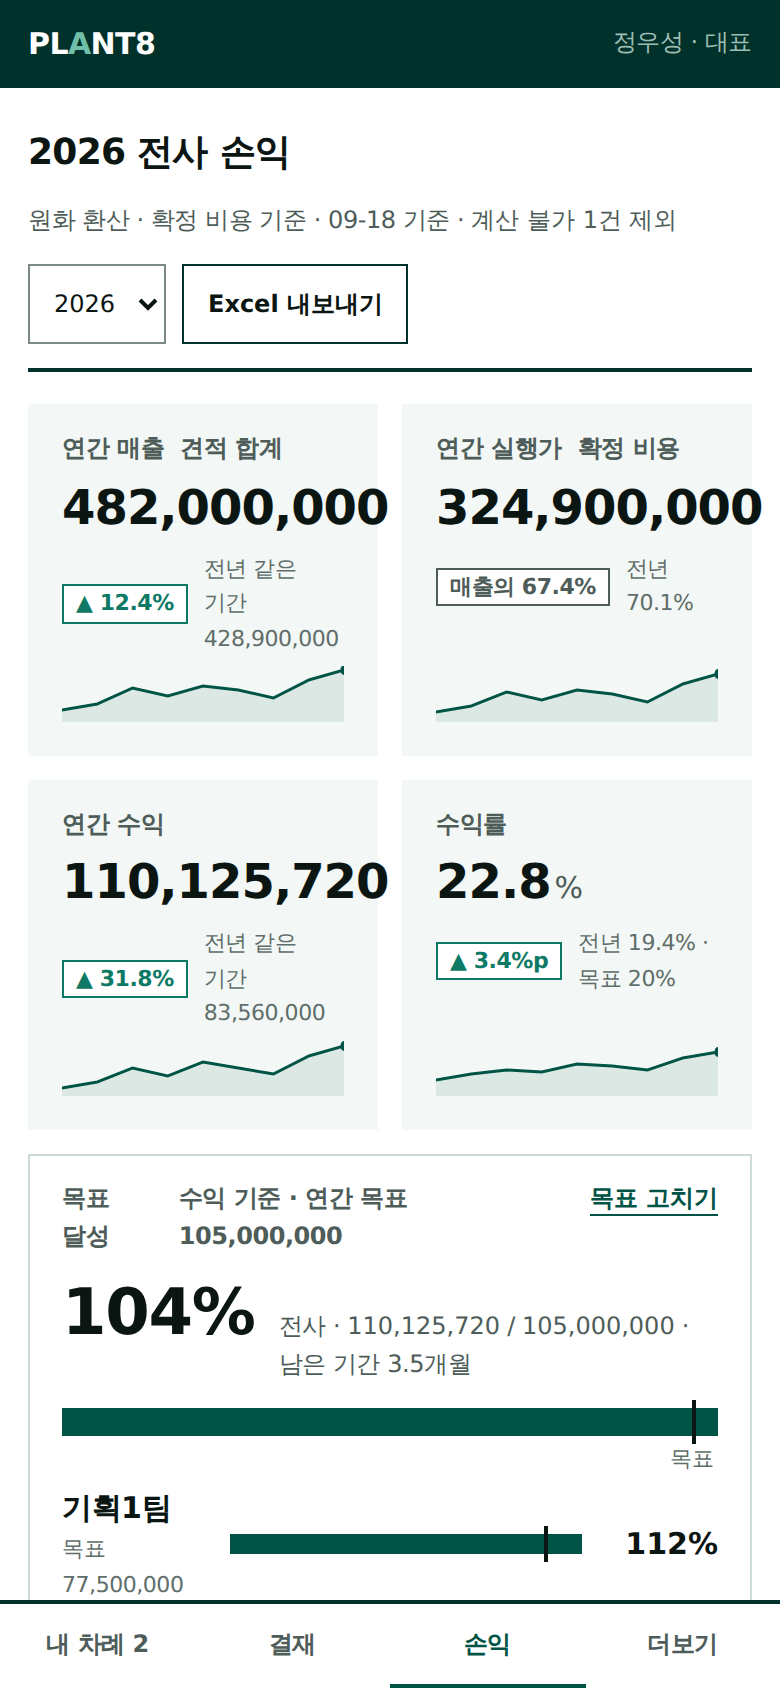
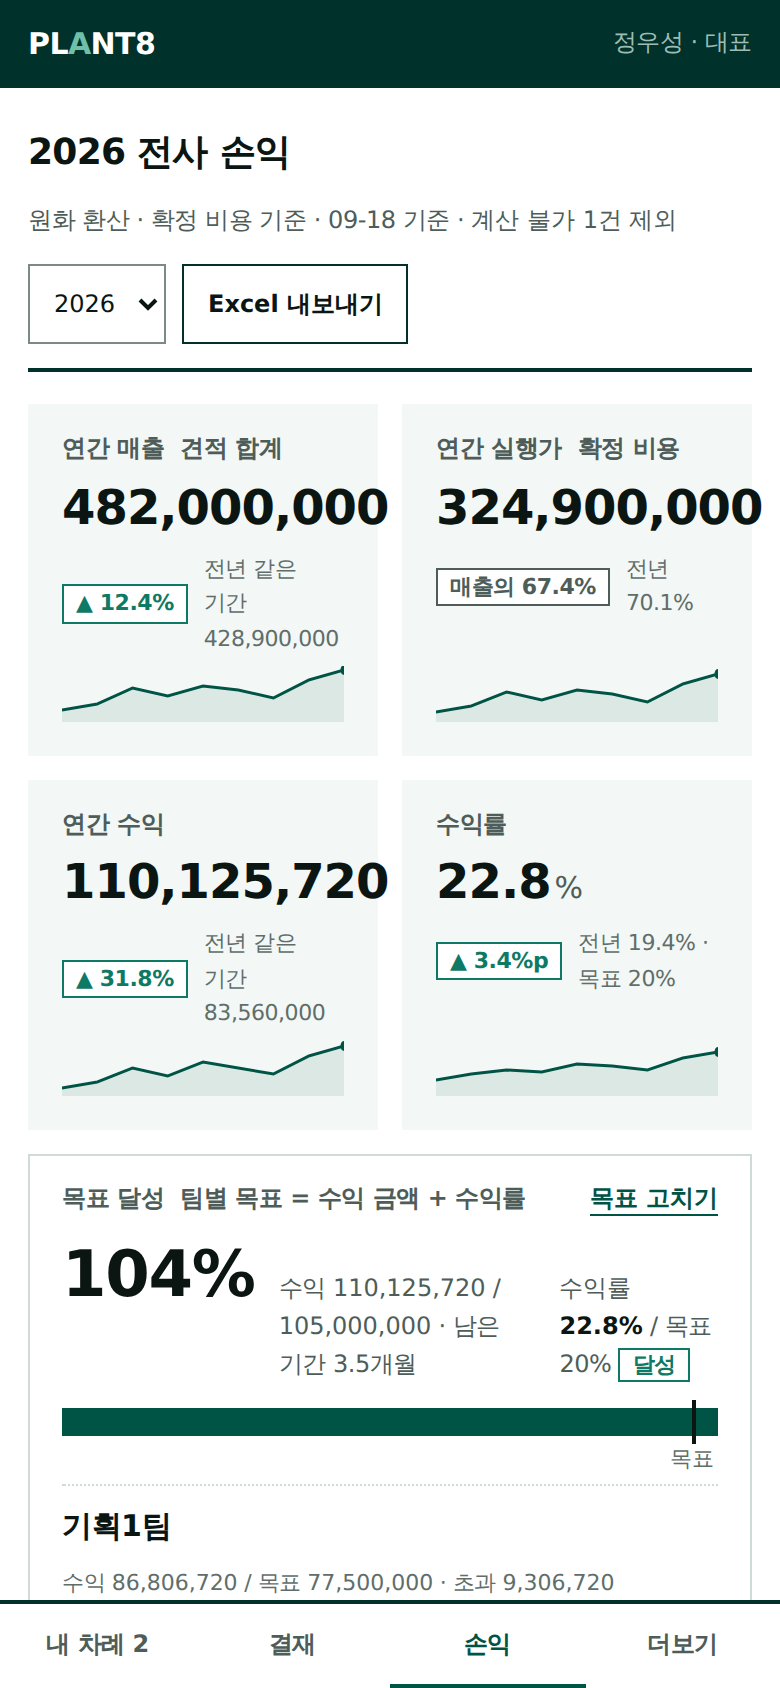
docs: 전사 대시보드 반영 — 클라이언트별 매출 순위 · 비용 구성 도넛 · 팀별 수익률 목표 · 데이터 색 6단 제안
사용자 결정(2026-09-18): 「다가오는 지급」 「챙길 것」 제외, 클라이언트별
매출 순위 추가, 팀별 목표에 수익률(실적/목표) 추가, 색 더 다양하게.
「챙길 것」 자리에는 비용 구성 도넛을 추천으로 넣었다(확인 전).
데이터 색 --viz-1~6은 파일 안 제안 토큰(확정 시 tokens.css).

Claude-Session: https://claude.ai/code/session_01MwoSZSUG1tWADvG16RK3Ss

diff --git a/docs/design/system/dashboard-ceo.html b/docs/design/system/dashboard-ceo.html
@@ -9,10 +9,14 @@
 /* §6-4 다시 씀 후보(2026-09-18, 사용자 요청 「대시보드 형식으로 한눈에」): 대표·경영관리 첫 화면.
    프로젝트별 원장은 여기 없다(프로젝트 목록에 수익률 열이 있다). 컴포넌트: KPI 타일(추세선 · 전년 대비 칩) ·
    목표 달성 막대(전사 + 팀별, 목표 눈금) · 월별 매출·수익 막대 + 수익률 선 · 팀별 매출 비중 띠 ·
-   챙길 것 타일 · 프로젝트 현황(상태 칩 + 수익률 낮은 프로젝트) · 다가오는 지급.
-   토큰만 쓴다. 제안 토큰 1개: --fs-2xl(32px, 대시보드 큰 숫자) — 승인 전이라 이 파일 안에서만 정의.
+   클라이언트별 매출 순위(팀 색) · 비용 구성 도넛(추천) · 프로젝트 현황(상태 칩 + 수익률 낮은 프로젝트).
+   2026-09-18 사용자: 「다가오는 지급」 「챙길 것」 제외, 클라이언트별 매출 순위 추가, 색 더 다양하게(→ --viz-* 제안).
+   토큰만 쓴다. 제안 토큰: --fs-2xl(32px) · --viz-1~6(데이터 색) — 승인 전이라 이 파일 안에서만 정의.
    장면: #ceo(기본) · #mgmt(경영관리 — 같은 화면, 계급 이름만). 앱 코드가 아니다. */
-:root{--fs-2xl:32px}
+:root{--fs-2xl:32px;
+  /* 제안 토큰(승인 전): 데이터 색 6단 — 그린을 1번으로, 나머지는 같은 명도대의 다른 색상. 흰 글자 대비 1·2·4·5 ≥ 4.5, 3·6은 짙은 글자 */
+  --viz-1:var(--g-700);--viz-2:#1F5FA8;--viz-3:#C27A12;--viz-4:#6C4BA6;--viz-5:#B03A2E;--viz-6:var(--g-400);
+  --viz-1-weak:var(--g-100);--viz-2-weak:#DCE7F5;--viz-3-weak:#F7E8CF}
 *{box-sizing:border-box;margin:0;padding:0}
 html{font-size:var(--fs-base)}
 body{background:var(--bg);color:var(--fg);font-family:var(--font-sans);font-size:var(--fs-base);line-height:var(--lh-body);letter-spacing:var(--ls-body);word-break:keep-all;overflow-wrap:anywhere;-webkit-font-smoothing:antialiased}
@@ -74,13 +78,22 @@ main{padding:var(--s-5) var(--pad-page) 72px;max-width:var(--container-max)}
 .track i{position:absolute;top:-4px;bottom:-4px;width:2px;background:var(--fg)}
 .track .tick{position:absolute;top:100%;font-size:var(--fs-xs);color:var(--faint);transform:translateX(-50%);margin-top:3px;white-space:nowrap}
 .teams{list-style:none;display:flex;flex-direction:column;gap:var(--s-3);margin-top:var(--s-3)}
-.teams li{display:grid;grid-template-columns:72px minmax(0,1fr) 56px;gap:var(--s-3);align-items:center;min-width:0}
-.teams .t{font-weight:var(--fw-medium)}
-.teams .t small{display:block;font-size:var(--fs-xs);color:var(--faint);font-weight:var(--fw-regular)}
-.teams .track{height:10px;margin:0}
-.teams .pct{text-align:right;font-weight:var(--fw-bold)}
-.teams .pct.low{color:var(--warning)}
-.teams .amt{grid-column:2/-1;font-size:var(--fs-xs);color:var(--faint);margin-top:-6px;white-space:normal;letter-spacing:var(--ls-body)}
+.teams li{display:flex;flex-direction:column;gap:5px;min-width:0;padding-top:var(--s-2);border-top:var(--line-w) dotted var(--line)}
+.teams .hd{display:flex;gap:var(--s-2);align-items:baseline;flex-wrap:wrap}
+.teams .hd b{font-weight:var(--fw-medium)}
+.teams .hd small{font-size:var(--fs-xs);color:var(--faint)}
+.teams .r{display:grid;grid-template-columns:40px minmax(0,1fr) 108px;gap:var(--s-2);align-items:center}
+.teams .r small{font-size:var(--fs-xs);color:var(--faint)}
+.teams .r .track{margin:0;height:10px}
+.teams .r .track i{top:-3px;bottom:-3px}
+.teams .r.rate .track{height:6px;background:var(--viz-3-weak)}
+.teams .r.rate .track b{background:var(--viz-3)}
+.teams .pct{text-align:right;font-weight:var(--fw-bold);white-space:nowrap}
+.teams .pct small{font-weight:var(--fw-regular);color:var(--faint);font-size:var(--fs-xs)}
+.teams .pct.low,.teams .pct.miss{color:var(--viz-5)}
+.teams li.t1 .r:not(.rate) .track b{background:var(--viz-1)}
+.teams li.t2 .r:not(.rate) .track b{background:var(--viz-2)}
+.teams li.t3 .r:not(.rate) .track b{background:var(--viz-4)}
 
 /* 월별 차트 */
 .chart{width:100%;height:auto;display:block;margin-top:var(--s-2)}
@@ -89,19 +102,20 @@ main{padding:var(--s-5) var(--pad-page) 72px;max-width:var(--container-max)}
 .chart .sales{fill:var(--g-100)}
 .chart .profit{fill:var(--g-700)}
 .chart .now .sales{fill:var(--g-400)}
-.chart .rate{fill:none;stroke:var(--fg);stroke-width:1.5;stroke-dasharray:3 3}
-.chart .rate-dot{fill:var(--bg);stroke:var(--fg);stroke-width:1.5}
+.chart .rate{fill:none;stroke:var(--viz-3);stroke-width:2}
+.chart .rate-dot{fill:var(--bg);stroke:var(--viz-3);stroke-width:2}
 .chart .lbl{font-size:11px;fill:var(--fg);font-weight:600;font-family:var(--font-sans)}
+.chart .lbl.rate-l{fill:var(--viz-3)}
 .legend{display:flex;gap:var(--s-4);font-size:var(--fs-xs);color:var(--muted);flex-wrap:wrap}
 .legend i{display:inline-block;width:10px;height:10px;vertical-align:-1px;margin-right:4px}
 .legend .l-sales{background:var(--g-100)}.legend .l-profit{background:var(--g-700)}.legend .l-now{background:var(--g-400)}
-.legend .l-rate{width:14px;height:0;border-top:2px dashed var(--fg);vertical-align:2px}
+.legend .l-rate{width:14px;height:0;border-top:2px solid var(--viz-3);vertical-align:2px}
 
 /* 비중 띠 */
 .share{display:flex;height:22px;margin-top:var(--s-2)}
 .share span{display:flex;align-items:center;padding:0 var(--s-2);font-size:var(--fs-xs);font-weight:var(--fw-medium);white-space:nowrap;overflow:hidden;min-width:0}
 .share .a{background:var(--g-700);color:#fff}
-.share .b{background:var(--g-400);color:var(--g-900)}
+.share .b{background:var(--viz-2);color:#fff}
 .share .c{background:var(--g-100);color:var(--fg)}
 .share-l{display:flex;gap:var(--s-4);font-size:var(--fs-xs);color:var(--muted);margin-top:var(--s-1);flex-wrap:wrap}
 .share-l b{color:var(--fg)}
@@ -119,7 +133,10 @@ main{padding:var(--s-5) var(--pad-page) 72px;max-width:var(--container-max)}
 
 /* 프로젝트 현황 */
 .status{display:flex;gap:var(--s-2);flex-wrap:wrap}
-.status span{border:var(--line-w) solid var(--line-strong);padding:2px 10px;font-size:var(--fs-sm);display:inline-flex;gap:6px;align-items:baseline}
+.status span{border:var(--line-w) solid var(--line-strong);padding:2px 10px;font-size:var(--fs-sm);display:inline-flex;gap:6px;align-items:baseline;box-shadow:inset 3px 0 0 var(--viz-1)}
+.status span.done{box-shadow:inset 3px 0 0 var(--viz-2)}
+.status span.wait{box-shadow:inset 3px 0 0 var(--viz-3)}
+.status span.next{box-shadow:inset 3px 0 0 var(--viz-4)}
 .status b{font-size:var(--fs-md)}
 .status span.m{border-color:var(--line);color:var(--muted)}
 .low{list-style:none;margin-top:var(--s-2)}
@@ -131,6 +148,36 @@ main{padding:var(--s-5) var(--pad-page) 72px;max-width:var(--container-max)}
 .low .mini b.bad{background:var(--danger)}
 .low .pct{text-align:right;font-weight:var(--fw-bold)}
 .low .pct.w{color:var(--warning)}.low .pct.d{color:var(--danger)}
+
+/* 클라이언트별 매출 순위 */
+.rank{list-style:none;display:flex;flex-direction:column;gap:6px;margin-top:var(--s-1)}
+.rank li{display:grid;grid-template-columns:18px minmax(0,1fr) 92px;gap:var(--s-2);align-items:center;font-size:var(--fs-sm)}
+.rank .no{font-size:var(--fs-xs);color:var(--faint);text-align:right;font-variant-numeric:tabular-nums}
+.rank .nm{display:flex;justify-content:space-between;gap:var(--s-2);min-width:0}
+.rank .nm span{overflow:hidden;text-overflow:ellipsis;white-space:nowrap}
+.rank .nm small{color:var(--faint);white-space:nowrap}
+.rank .bar-c{grid-column:2;height:12px;background:var(--surface);position:relative;margin-top:-2px}
+.rank .bar-c b{position:absolute;left:0;top:0;bottom:0;background:var(--viz-1)}
+.rank li.t2 .bar-c b{background:var(--viz-2)}
+.rank li.na .bar-c b{background:var(--line-ui)}
+.rank .amt{grid-row:span 2;text-align:right;font-weight:var(--fw-bold);align-self:center}
+.rank .amt small{display:block;font-size:var(--fs-xs);color:var(--faint);font-weight:var(--fw-regular)}
+.rank-l{display:flex;gap:var(--s-4);font-size:var(--fs-xs);color:var(--muted);margin-top:auto;padding-top:var(--s-2)}
+.rank-l i{display:inline-block;width:10px;height:10px;vertical-align:-1px;margin-right:4px}
+/* 비용 구성 도넛 */
+.donut{display:grid;grid-template-columns:132px minmax(0,1fr);gap:var(--s-3);align-items:center}
+.donut svg{width:132px;height:132px}
+.donut circle{fill:none;stroke-width:22}
+.donut .c1{stroke:var(--viz-1)}.donut .c2{stroke:var(--viz-2)}.donut .c3{stroke:var(--viz-3)}.donut .c4{stroke:var(--viz-4)}.donut .c5{stroke:var(--viz-5)}
+.donut .ctr{font-size:var(--fs-lg);font-weight:var(--fw-bold);fill:var(--fg);font-family:var(--font-sans)}
+.donut .ctr-l{font-size:11px;fill:var(--faint);font-family:var(--font-sans)}
+.donut ul{list-style:none;display:flex;flex-direction:column;gap:5px;font-size:var(--fs-sm);min-width:0}
+.donut li{display:grid;grid-template-columns:10px auto 1fr;gap:8px;align-items:baseline;white-space:nowrap}
+.donut li .p{text-align:right}
+.donut li i{width:10px;height:10px;display:block;align-self:center}
+.donut li .p{font-weight:var(--fw-bold);font-variant-numeric:tabular-nums}
+.donut li small{color:var(--faint);margin-left:4px}
+.donut .k1{background:var(--viz-1)}.donut .k2{background:var(--viz-2)}.donut .k3{background:var(--viz-3)}.donut .k4{background:var(--viz-4)}.donut .k5{background:var(--viz-5)}
 
 /* 다가오는 지급 */
 .pay{list-style:none}
@@ -206,13 +253,18 @@ main{padding:var(--s-5) var(--pad-page) 72px;max-width:var(--container-max)}
 
     <!-- 목표 달성 -->
     <section class="blk c5" aria-label="목표 달성">
-      <h2>목표 달성 <span class="why">수익 기준 · 연간 목표 105,000,000</span><button class="b3">목표 고치기</button></h2>
-      <div class="goal-big"><span class="pct num">104%</span><span class="of">전사 · <span class="num">110,125,720</span> / <span class="num">105,000,000</span> · 남은 기간 3.5개월</span></div>
+      <h2>목표 달성 <span class="why">팀별 목표 = 수익 금액 + 수익률</span><button class="b3">목표 고치기</button></h2>
+      <div class="goal-big"><span class="pct num">104%</span><span class="of">수익 <span class="num">110,125,720</span> / <span class="num">105,000,000</span> · 남은 기간 3.5개월</span><span class="of" style="margin-left:auto">수익률 <b class="num" style="color:var(--fg)">22.8%</b> / 목표 20% <span class="chip up">달성</span></span></div>
       <div class="track" aria-hidden="true"><b style="width:100%"></b><i style="left:96%"></i><span class="tick" style="left:96%">목표</span></div>
       <ul class="teams">
-        <li><span class="t">기획1팀<small>목표 77,500,000</small></span><span class="track"><b style="width:100%"></b><i style="left:89%"></i></span><span class="pct num">112%</span><span class="amt num">86,806,720 · 초과 9,306,720</span></li>
-        <li><span class="t">기획2팀<small>목표 26,500,000</small></span><span class="track"><b style="width:88%"></b><i style="left:100%"></i></span><span class="pct num low">88%</span><span class="amt num">23,319,000 · 남은 3,181,000 · 진행 2건 예상 수익 4,900,000</span></li>
-        <li><span class="t">경영관리<small>목표 1,000,000</small></span><span class="track"><b style="width:0%"></b><i style="left:100%"></i></span><span class="pct num low">0%</span><span class="amt">프로젝트 없음 · 팀 비용만</span></li>
+        <li class="t1"><div class="hd"><b>기획1팀</b><small>수익 <span class="num">86,806,720</span> / 목표 <span class="num">77,500,000</span> · 초과 <span class="num">9,306,720</span></small></div>
+          <div class="r"><small>수익</small><span class="track"><b style="width:100%"></b><i style="left:89%"></i></span><span class="pct num">112%</span></div>
+          <div class="r rate"><small>수익률</small><span class="track"><b style="width:68%"></b><i style="left:55%"></i></span><span class="pct num">27.0%<small> / 22%</small></span></div></li>
+        <li class="t2"><div class="hd"><b>기획2팀</b><small>수익 <span class="num">23,319,000</span> / 목표 <span class="num">26,500,000</span> · 남은 <span class="num">3,181,000</span> · 진행 2건 예상 <span class="num">4,900,000</span></small></div>
+          <div class="r"><small>수익</small><span class="track"><b style="width:88%"></b><i style="left:100%"></i></span><span class="pct num low">88%</span></div>
+          <div class="r rate"><small>수익률</small><span class="track"><b style="width:37%"></b><i style="left:45%"></i></span><span class="pct num miss">14.6%<small> / 18%</small></span></div></li>
+        <li class="t3"><div class="hd"><b>경영관리</b><small>프로젝트 없음 · 팀 비용만 · 목표 <span class="num">1,000,000</span></small></div>
+          <div class="r"><small>수익</small><span class="track"><b style="width:0"></b><i style="left:100%"></i></span><span class="pct num low">0%</span></div></li>
       </ul>
     </section>
 
@@ -236,27 +288,54 @@ main{padding:var(--s-5) var(--pad-page) 72px;max-width:var(--container-max)}
         <!-- 수익률 선: 우측 축 0~40% → y 190~20 -->
         <polyline class="rate" points="64,111 114,97 164,91 214,98 264,83 314,94 364,96 414,88 464,95"/>
         <g class="rate-dot"><circle cx="64" cy="111" r="3"/><circle cx="114" cy="97" r="3"/><circle cx="164" cy="91" r="3"/><circle cx="214" cy="98" r="3"/><circle cx="264" cy="83" r="3"/><circle cx="314" cy="94" r="3"/><circle cx="364" cy="96" r="3"/><circle cx="414" cy="88" r="3"/><circle cx="464" cy="95" r="3"/></g>
-        <text class="lbl" x="472" y="92">22.4%</text>
+        <text class="lbl rate-l" x="472" y="92">22.4%</text>
       </svg>
       <div class="share-l"><span>매출 비중</span></div>
       <div class="share" aria-label="팀별 매출 비중"><span class="a" style="width:67%">기획1팀 67% · 322,000,000</span><span class="b" style="width:33%">기획2팀 33% · 160,000,000</span></div>
     </section>
 
-    <!-- 챙길 것 -->
-    <section class="blk c4" aria-label="챙길 것">
-      <h2>챙길 것</h2>
-      <ul class="care">
-        <li class="warn"><span class="n num">2<small>건</small></span><span class="l">결재 대기 · 가장 급한 마감 오늘 14:00</span><button class="b3">내 차례</button></li>
-        <li class="bad"><span class="n num">1<small>건</small></span><span class="l">계산 불가 · Skyline 다낭 · 환율 없음</span><button class="b3">환율 넣기</button></li>
-        <li><span class="n num">5<small>건</small></span><span class="l">이번 달 지급 예정 · <span class="num">41,200,000</span></span></li>
-        <li class="ok"><span class="n num">0<small>건</small></span><span class="l">마감 지난 결재 · 미연결 카드 0</span></li>
-      </ul>
+    <!-- 비용 구성 (추천: 「챙길 것」 자리) -->
+    <section class="blk c4" aria-label="비용 구성">
+      <h2>비용 구성 <span class="why">실행가 324,900,000</span></h2>
+      <div class="donut">
+        <svg viewBox="0 0 132 132" aria-hidden="true">
+          <!-- r=44 · 둘레 276.5 · 44% 28% 12% 9% 7% -->
+          <circle class="c1" cx="66" cy="66" r="44" stroke-dasharray="121.7 276.5" transform="rotate(-90 66 66)"/>
+          <circle class="c2" cx="66" cy="66" r="44" stroke-dasharray="77.4 276.5" stroke-dashoffset="-121.7" transform="rotate(-90 66 66)"/>
+          <circle class="c3" cx="66" cy="66" r="44" stroke-dasharray="33.2 276.5" stroke-dashoffset="-199.1" transform="rotate(-90 66 66)"/>
+          <circle class="c4" cx="66" cy="66" r="44" stroke-dasharray="24.9 276.5" stroke-dashoffset="-232.3" transform="rotate(-90 66 66)"/>
+          <circle class="c5" cx="66" cy="66" r="44" stroke-dasharray="19.3 276.5" stroke-dashoffset="-257.2" transform="rotate(-90 66 66)"/>
+          <text class="ctr" x="66" y="64" text-anchor="middle">67%</text><text class="ctr-l" x="66" y="80" text-anchor="middle">매출 대비</text>
+        </svg>
+        <ul>
+          <li><i class="k1"></i><span>무대·시공</span><span class="p">44%<small>142.6M</small></span></li>
+          <li><i class="k2"></i><span>운영·인력</span><span class="p">28%<small>91.3M</small></span></li>
+          <li><i class="k3"></i><span>제작·인쇄</span><span class="p">12%<small>38.2M</small></span></li>
+          <li><i class="k4"></i><span>법인카드</span><span class="p">9%<small>29.5M</small></span></li>
+          <li><i class="k5"></i><span>해외·기타</span><span class="p">7%<small>23.3M</small></span></li>
+        </ul>
+      </div>
+      <div class="rank-l" style="margin-top:auto"><span>전년 무대·시공 48% → 44%</span><span>법인카드 6% → 9%</span></div>
     </section>
 
+    <!-- 클라이언트별 매출 -->
+    <section class="blk c4" aria-label="클라이언트별 매출">
+      <h2>클라이언트별 매출 <span class="why">견적 기준 · 7곳</span><button class="b3">프로젝트 목록</button></h2>
+      <ol class="rank">
+        <li class="t1"><span class="no">1</span><span class="nm"><span>신세계 <small>· VIP 라운지 리뉴얼 · 기획1팀</small></span></span><span class="amt num">210,000,000<small>40%</small></span><span class="bar-c"><b style="width:100%"></b></span></li>
+        <li class="t2"><span class="no">2</span><span class="nm"><span>한빛 <small>· 브랜드 팝업스토어 · 기획2팀</small></span></span><span class="amt num">92,000,000<small>18%</small></span><span class="bar-c"><b style="width:44%"></b></span></li>
+        <li class="t1"><span class="no">3</span><span class="nm"><span>LG전자 <small>· 올레드 체험존 · 기획1팀</small></span></span><span class="amt num">64,000,000<small>12%</small></span><span class="bar-c"><b style="width:30%"></b></span></li>
+        <li class="t1"><span class="no">4</span><span class="nm"><span>현대자동차 <small>· 아이오닉9 쇼케이스 · 기획1팀</small></span></span><span class="amt num">48,000,000<small>9%</small></span><span class="bar-c"><b style="width:23%"></b></span></li>
+        <li class="t2"><span class="no">5</span><span class="nm"><span>카카오 <small>· 개발자 컨퍼런스 부스 · 기획2팀</small></span></span><span class="amt num">41,000,000<small>8%</small></span><span class="bar-c"><b style="width:20%"></b></span></li>
+        <li class="t1 na"><span class="no">6</span><span class="nm"><span>Skyline Travel <small>· 인센티브 투어 · 기획1팀 · 계산 불가</small></span></span><span class="amt num">38,000,000<small>7%</small></span><span class="bar-c"><b style="width:18%"></b></span></li>
+        <li class="t2"><span class="no">7</span><span class="nm"><span>서울시 <small>· 야외도서관 운영 · 기획2팀</small></span></span><span class="amt num">27,000,000<small>5%</small></span><span class="bar-c"><b style="width:13%"></b></span></li>
+      </ol>
+      <div class="rank-l"><span><i style="background:var(--viz-1)"></i>기획1팀</span><span><i style="background:var(--viz-2)"></i>기획2팀</span><span><i style="background:var(--line-ui)"></i>계산 불가</span><span>상위 3곳 = 70%</span></div>
+    </section>
     <!-- 프로젝트 현황 -->
     <section class="blk c4" aria-label="프로젝트 현황">
       <h2>프로젝트 현황 <button class="b3">프로젝트 목록</button></h2>
-      <div class="status"><span>진행 <b class="num">5</b></span><span>완료 <b class="num">2</b></span><span class="m">정산 대기 <b class="num">1</b></span><span class="m">10월 시작 <b class="num">2</b></span></div>
+      <div class="status"><span>진행 <b class="num">5</b></span><span class="done">완료 <b class="num">2</b></span><span class="wait">정산 대기 <b class="num">1</b></span><span class="next">10월 시작 <b class="num">2</b></span></div>
       <h2 style="margin-top:var(--s-2)">수익률 15% 아래 <span class="why">3건</span></h2>
       <ul class="low">
         <li><span class="nm">서울시 야외도서관 운영 대행<small>기획2팀</small></span><span class="mini"><b class="bad" style="width:36%"></b></span><span class="pct num d">8.9%</span></li>
@@ -265,17 +344,6 @@ main{padding:var(--s-5) var(--pad-page) 72px;max-width:var(--container-max)}
       </ul>
     </section>
 
-    <!-- 다가오는 지급 -->
-    <section class="blk c4" aria-label="다가오는 지급">
-      <h2>다가오는 지급 <span class="why">2주</span><button class="b3">지출결의</button></h2>
-      <ul class="pay">
-        <li><span class="d num">09-19<small>금</small></span><span>스테이지원 · 무대설치 <span class="who">· 기획1팀</span><span class="tag">결재 중</span></span><span class="amt num">13,640,000</span></li>
-        <li><span class="d num">09-19<small>금</small></span><span>김하늘 · 행사 진행 MC <span class="who">· 기타소득</span></span><span class="amt num">2,736,000</span></li>
-        <li><span class="d num">09-26<small>금</small></span><span>한빛무대예술 · LED 월 <span class="who">· 기획1팀</span><span class="tag">결재 중</span></span><span class="amt num">8,800,000</span></li>
-        <li><span class="d num">09-26<small>금</small></span><span>사운드포레스트 · 음향 <span class="who">· 기획1팀</span></span><span class="amt num">7,150,000</span></li>
-        <li><span class="d num">10-02<small>금</small></span><span>더테이블 · 케이터링 <span class="who">· 기획2팀</span></span><span class="amt num">4,840,000</span></li>
-      </ul>
-    </section>
   </div>
 
   <div class="foot"><span>프로젝트별 견적 · 비용 · 수익률은 <button class="b3">프로젝트 목록</button>에서</span><span>숫자는 09-18 06:00 기준 · 정산 스냅샷 포함</span></div>
